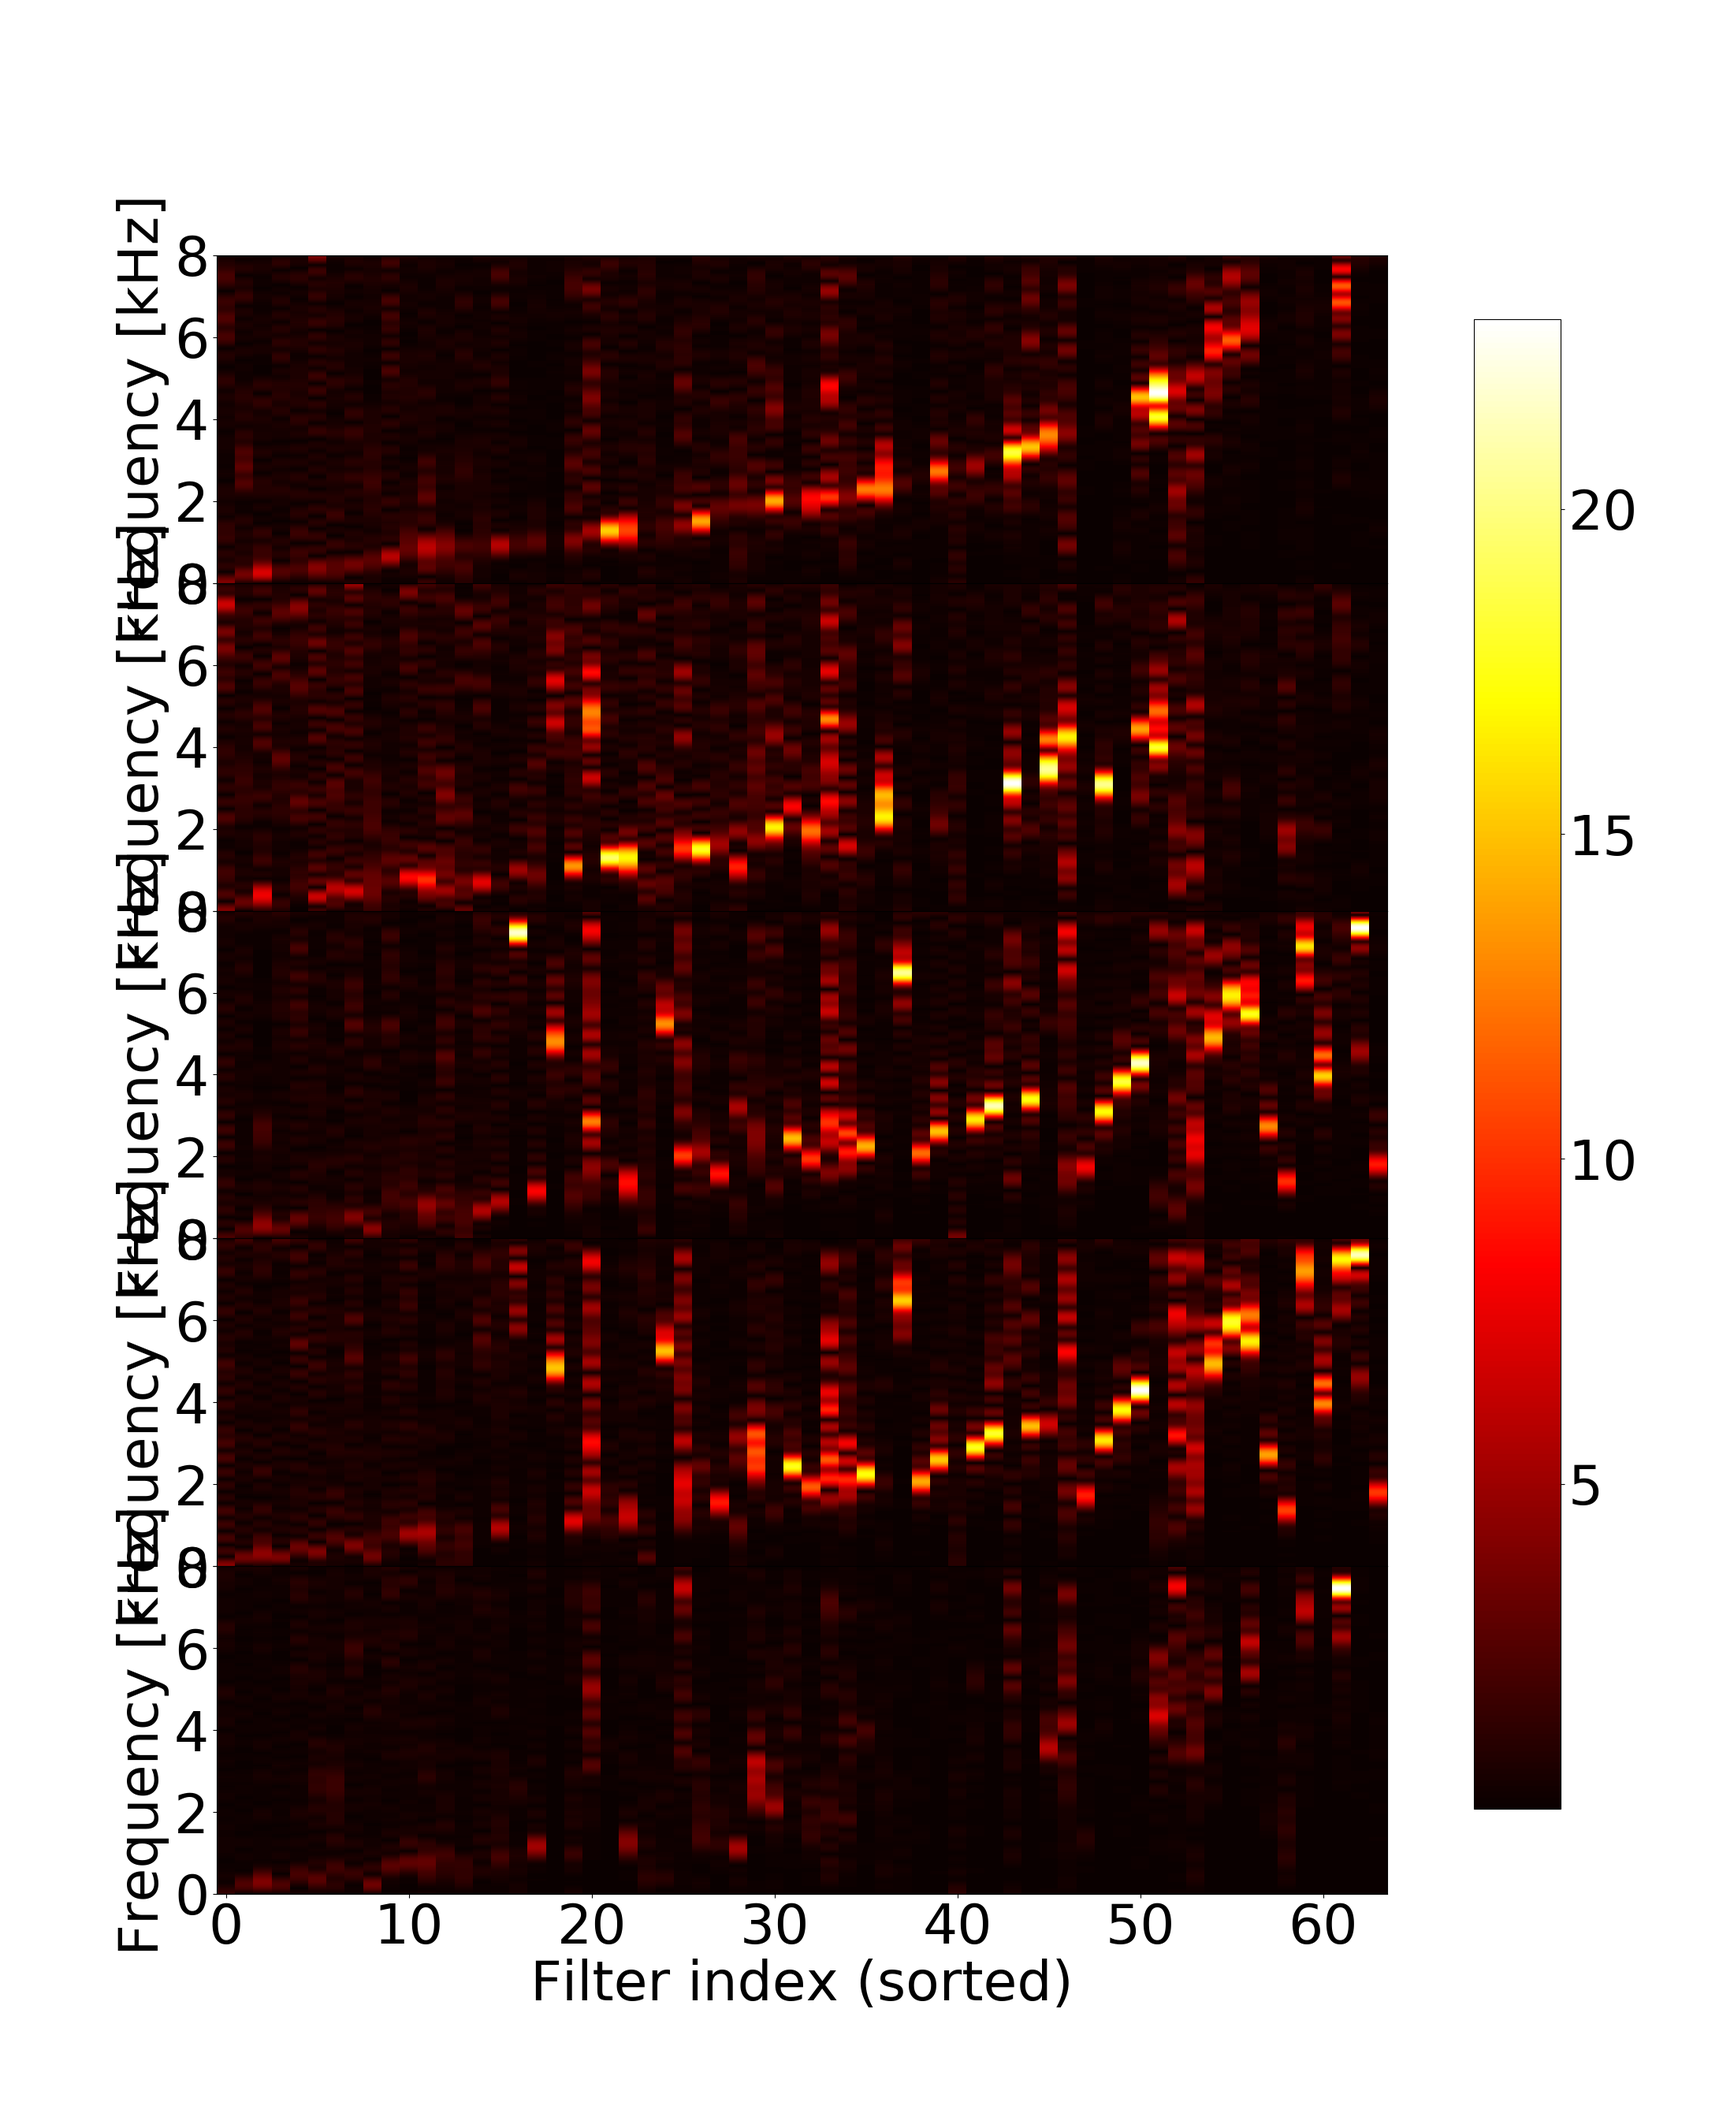
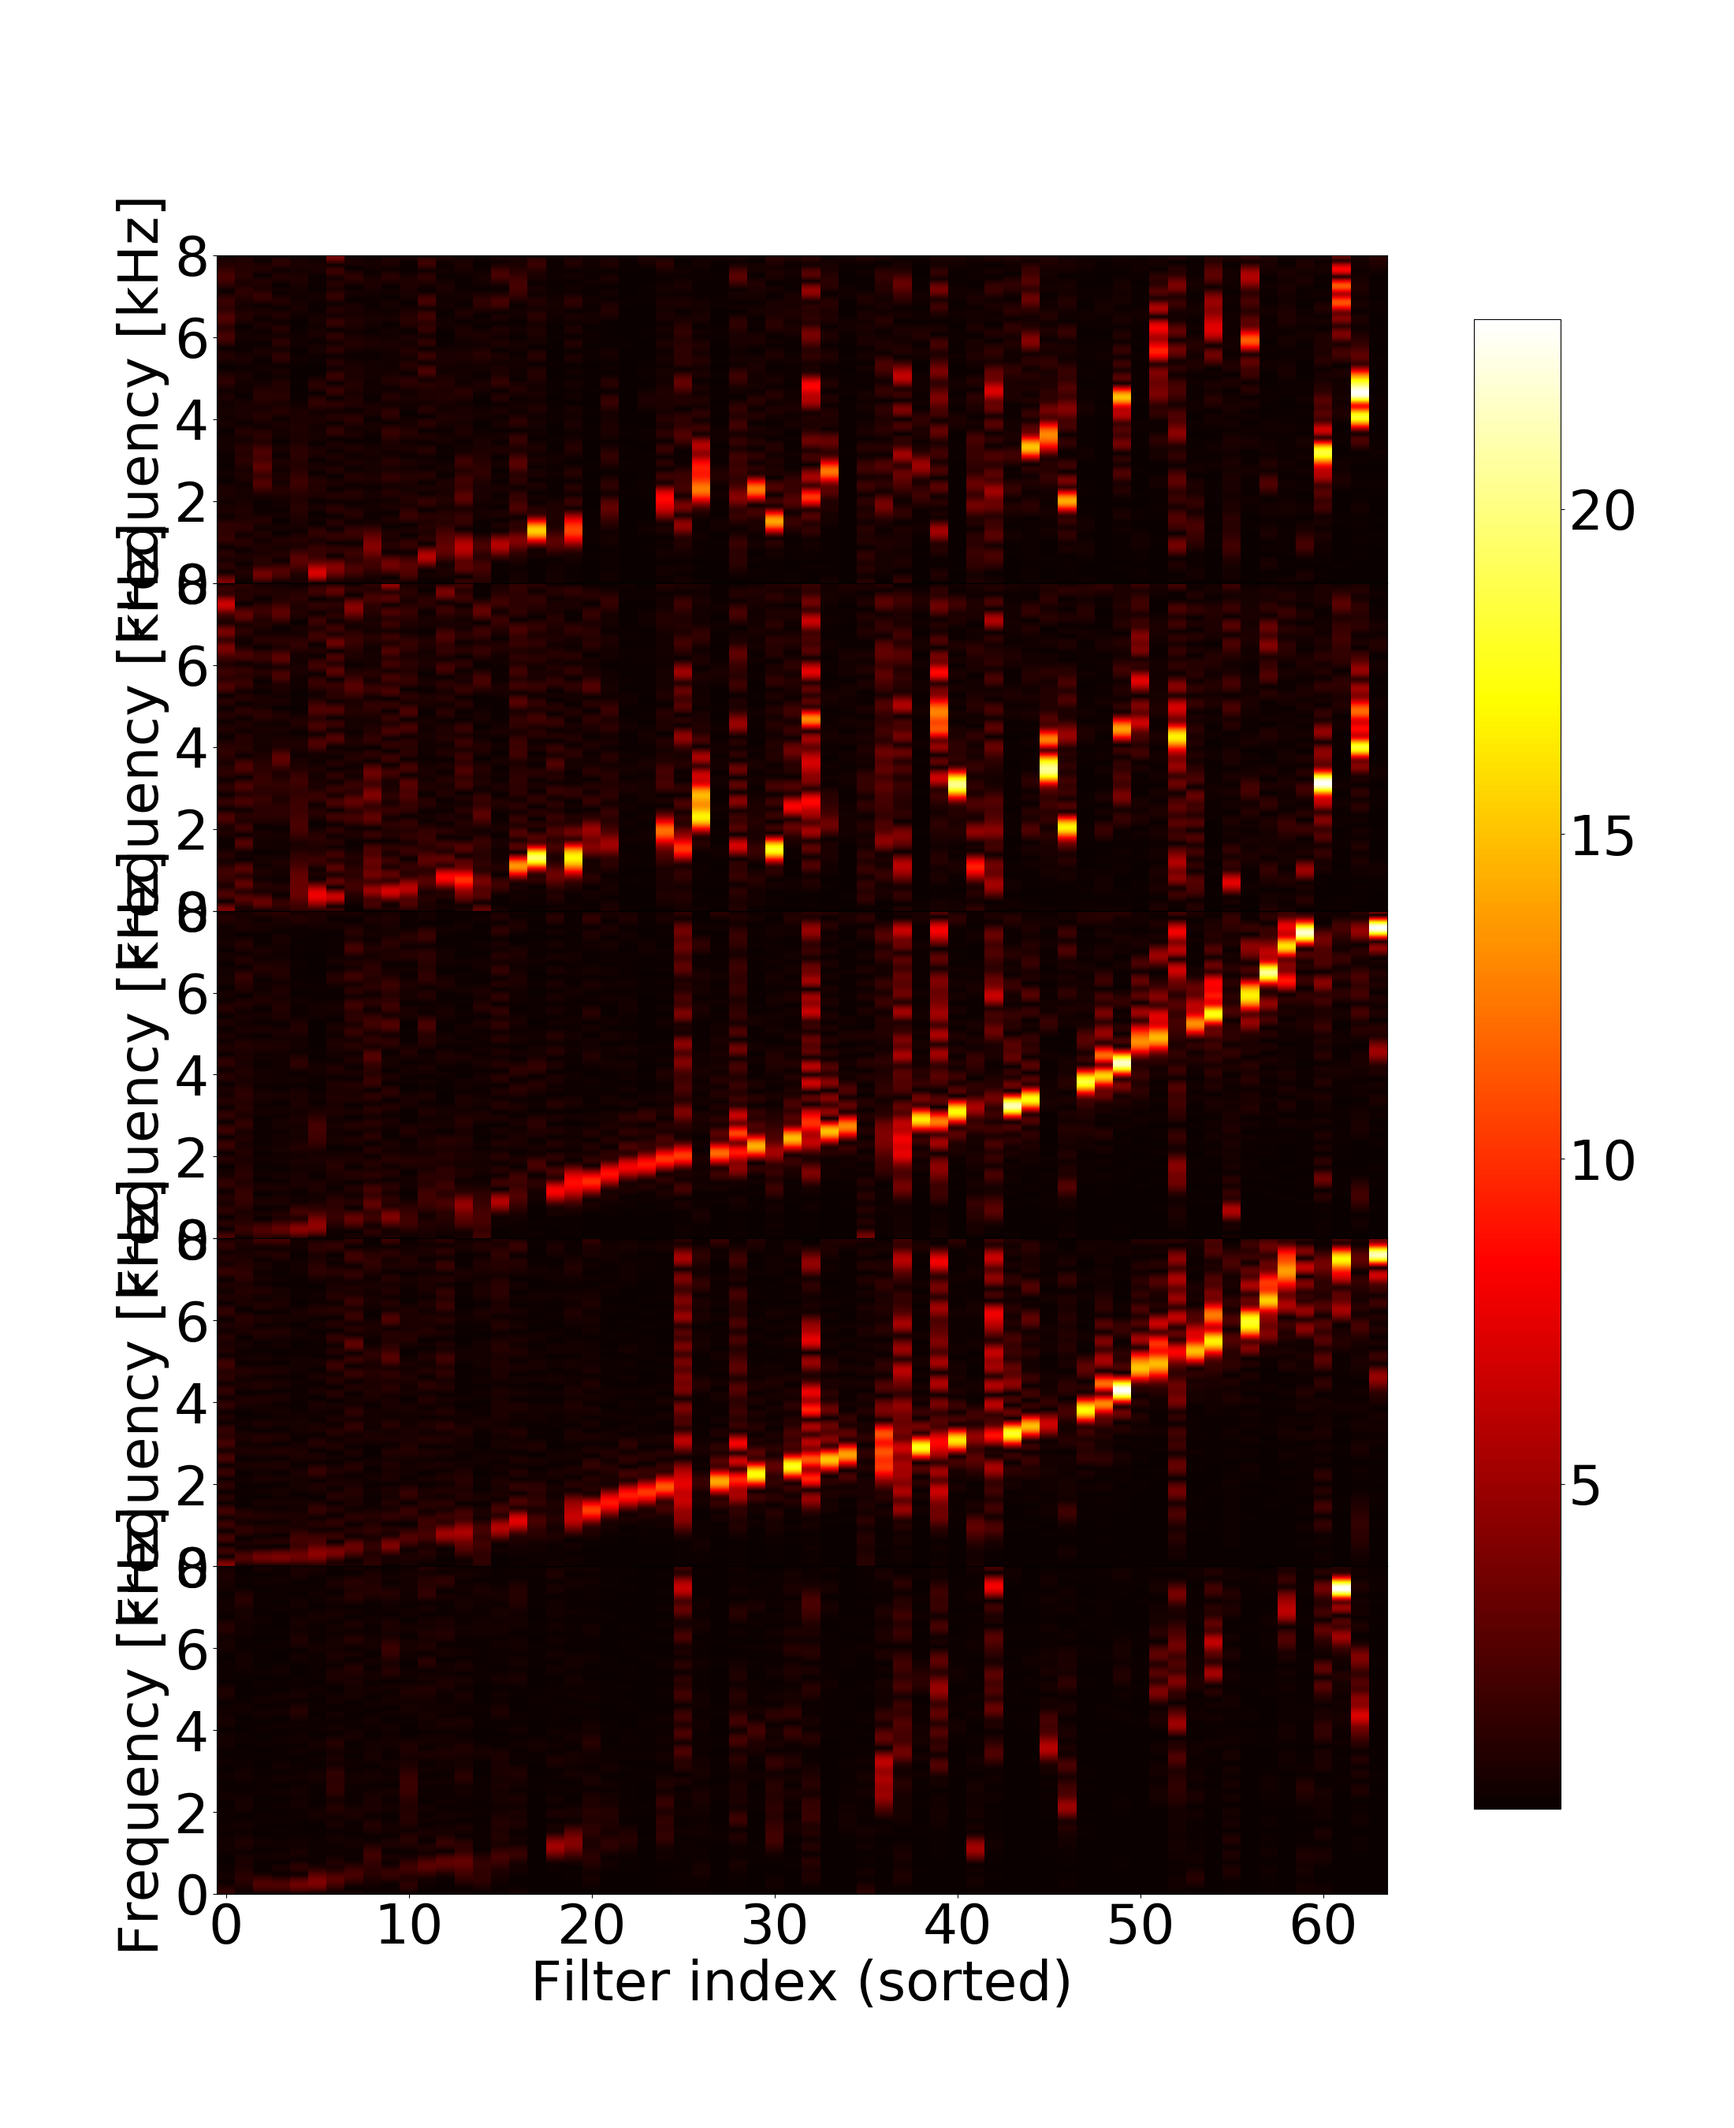
up

Changed region(s): [[0.1236, 0.1244, 0.8036, 0.8711], [0.1236, 0.84, 0.2782, 0.9022], [0.2164, 0.8089, 0.2473, 0.84]]

diff --git a/returnnTfNetworkLayerPlotter.py b/returnnTfNetworkLayerPlotter.py
@@ -218,8 +218,7 @@ class ProcessedWeights(object):
         return layerWeightsFreqTransposedAbsolute
 
     def getPermutation(self, weights, sortByDim):
-#        weightsEpoch = weights[sortByDim][-1]
-        weightsEpoch = weights[0][-1]
+        weightsEpoch = weights[sortByDim][-1]
         weightsEpoch = self.padWeightsEpoch(weightsEpoch)
         layerWeightsFreqTransposedAbsolute = self.transformToFourier(weightsEpoch)
         return layerWeightsFreqTransposedAbsolute.argmax(axis=1).argsort()
@@ -517,7 +516,6 @@ class Plotter(object):
         elif(mode == 'unsorted'):
             plotableWeights = self.layer.getPlotable2DWeights(doAnalytical)
         plt.locator_params(axis='y', nbins=4)
-        ipdb.set_trace()
         for epochRangeIdx, plotableWeightPerEpoch in enumerate(plotableWeights):
             for dimInputIdx, plotableWeightPerDim in enumerate(plotableWeightPerEpoch): 
                 im = axs[dimInputIdx][epochRangeIdx].imshow(plotableWeightPerDim, origin='lower', aspect='auto', cmap=self.plottingConfigs['cmap'])
